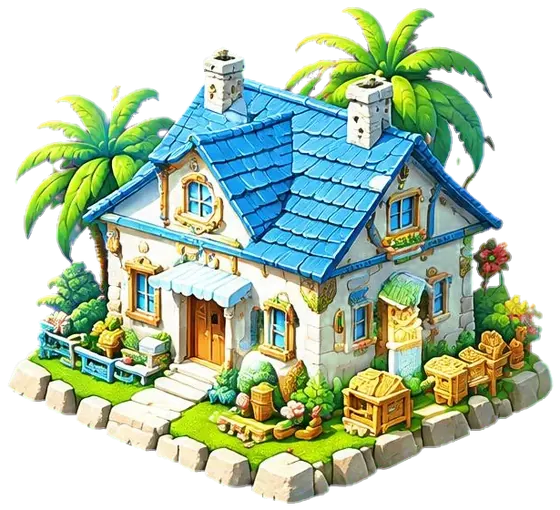
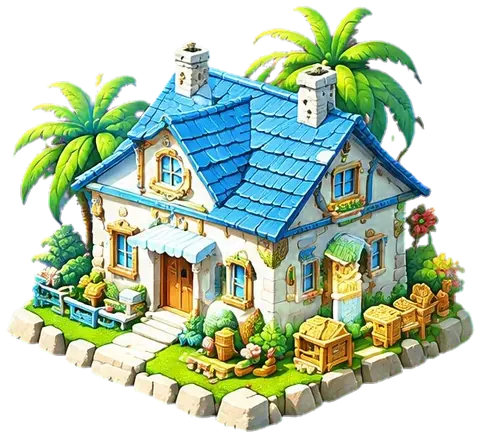
首屏先用 1600 底图，素材下完后高清屏再后台换高清图；房子和船再缩小

diff --git a/index.html b/index.html
@@ -4,9 +4,7 @@
   <meta charset="UTF-8" />
   <meta name="viewport" content="width=device-width, initial-scale=1.0, viewport-fit=cover" />
   <title>小白岛</title>
-  <link rel="preload" as="image" fetchpriority="high"
-    imagesrcset="assets/map-bg-1600.webp 1600w, assets/map-bg-2400.webp 2400w, assets/map-bg-3200.webp 3200w"
-    imagesizes="100vw" />
+  <link rel="preload" as="image" href="assets/map-bg-1600.webp" fetchpriority="high" />
   <style>
     /* 48px 宽的模糊占位图，底图下载完之前先显示岛的轮廓 */
[1 lines of base64/hex data omitted]
@@ -19,9 +17,7 @@
     <div class="stage" id="stage">
       <div class="world" id="world">
         <img class="map-bg" id="mapBg" alt="" draggable="false" fetchpriority="high" decoding="async"
-          src="assets/map-bg-1600.webp"
-          srcset="assets/map-bg-1600.webp 1600w, assets/map-bg-2400.webp 2400w, assets/map-bg-3200.webp 3200w"
-          sizes="100vw" />
+          src="assets/map-bg-1600.webp" />
         <div class="layer boats" id="boats"></div>
         <div class="layer houses" id="houses"></div>
         <div class="layer clouds" id="clouds"></div>

diff --git a/app.js b/app.js
@@ -6,9 +6,21 @@
 
   world.style.width = cfg.width + "px";
   world.style.height = cfg.height + "px";
-  // 底图在 index.html 里按屏幕挑分辨率并预加载；下载完之前显示内嵌的模糊占位图
-  // 房子、云、船的图片等底图下完再开始下载，不和底图抢带宽；底图太慢时 3 秒后也照常加载
+  // 加载顺序：内嵌模糊占位图 → 1600 宽底图 → 房子、云、船 → 高清屏再在后台换成高清底图
+  // 房子、云、船等底图下完再开始下载，不和底图抢带宽；底图太慢时 3 秒后也照常加载
   const mapBg = document.getElementById("mapBg");
+  const HD_MAPS = [2400, 3200];
+
+  function upgradeMap() {
+    const need = cfg.width * (parseFloat(world.style.zoom) || 1) * devicePixelRatio;
+    if (need <= 1800) return;
+    const w = HD_MAPS.find((x) => x >= need * 0.9) || HD_MAPS[HD_MAPS.length - 1];
+    const hd = new Image();
+    hd.src = `assets/map-bg-${w}.webp`;
+    hd.decode().then(() => (mapBg.src = hd.src)).catch(() => {});
+  }
+  const afterPageLoad = () => setTimeout(upgradeMap, 300);
+  document.readyState === "complete" ? afterPageLoad() : addEventListener("load", afterPageLoad);
   let pending = [];
   function lazySrc(img, src) {
     pending ? pending.push(() => (img.src = src)) : (img.src = src);

diff --git a/tools/build_assets.py b/tools/build_assets.py
@@ -14,8 +14,8 @@ A = ROOT / "assets"
 
 MAP_WIDTHS = [1600, 2400, 3200]
 MAP_QUALITY = 80
-# 在 2560 宽的 2 倍屏上，房子显示约 112 × 2.5 × 2 = 560 物理像素，取 560 足够清晰
-SPRITE_MAX = {"houses": 560, "boats": 400, "clouds": 900}
+# 1920 宽的 2 倍屏上，房子显示约 112 × 1.875 × 2 = 420 物理像素；国内访问 GitHub 很慢，取 480 兼顾清晰和体积
+SPRITE_MAX = {"houses": 480, "boats": 360, "clouds": 900}
 SPRITE_QUALITY = 78
 
 
